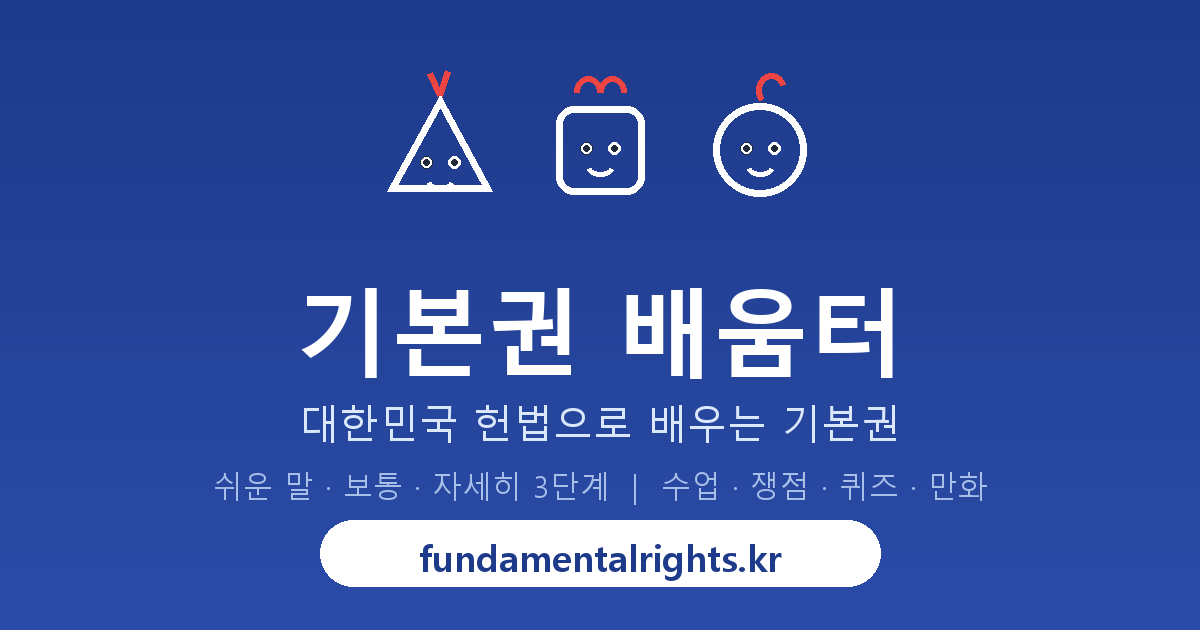
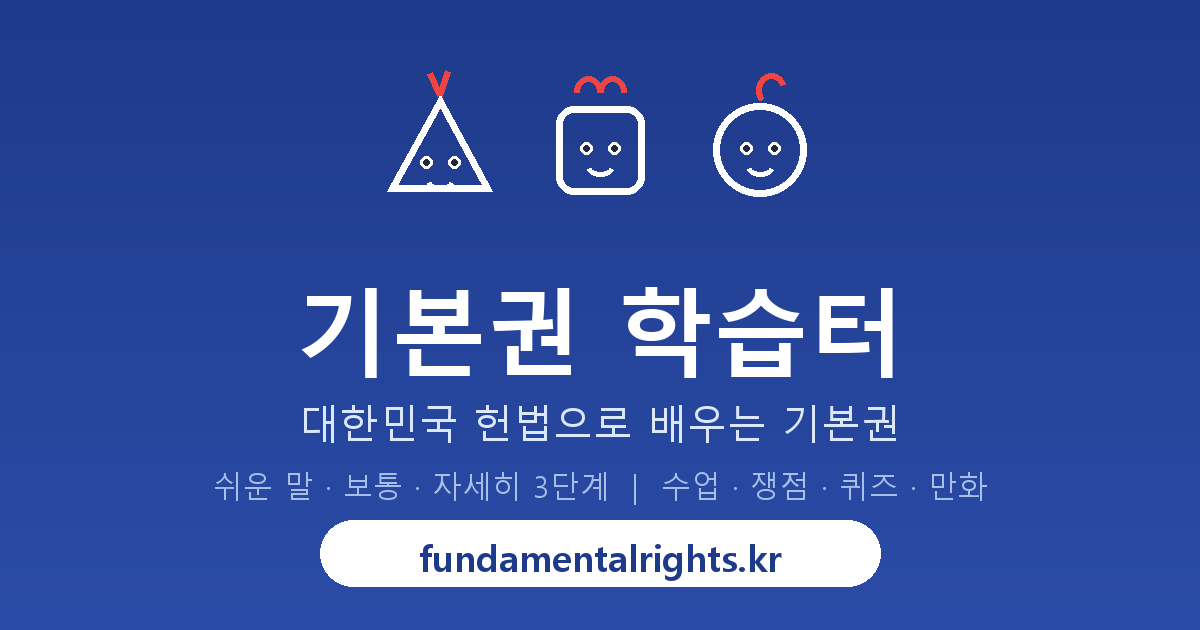
rename: site brand 기본권 배움터 → 기본권 학습터 (all pages, OG image, README, LICENSE, promo docs)

Changed region(s): [[0.5242, 0.4524, 0.6783, 0.6032]]

diff --git a/README.md b/README.md
@@ -1,4 +1,4 @@
-# 기본권 배움터 (Fundamental Rights)
+# 기본권 학습터 (Fundamental Rights)
 
 **https://fundamentalrights.kr/**
 
@@ -55,7 +55,7 @@ npm run preview  # 빌드 결과 미리보기
 ## 라이선스
 
 - **콘텐츠**(권리 설명, 쟁점, 수업안, 워크시트, 포스터, 만화, 삽화 등):
-  [CC BY-NC-SA 4.0](https://creativecommons.org/licenses/by-nc-sa/4.0/deed.ko) — 출처(기본권 배움터)를 밝히면
+  [CC BY-NC-SA 4.0](https://creativecommons.org/licenses/by-nc-sa/4.0/deed.ko) — 출처(기본권 학습터)를 밝히면
   비영리 목적으로 자유롭게 복사·배포·수정할 수 있습니다.
 - **코드**(사이트 소스): [MIT License](./LICENSE)
 - 헌법 조문 원문은 공공 저작물이며, 인용된 판례·통계는 각 원출처를 따릅니다.

diff --git a/docs/홍보문.md b/docs/홍보문.md
@@ -1,4 +1,4 @@
-# 기본권 배움터 — 활용 안내문 (배포용 초안)
+# 기본권 학습터 — 활용 안내문 (배포용 초안)
 
 커뮤니티·SNS·단체방에 붙여넣을 때 아래에서 길이에 맞는 것을 골라 쓰세요.
 필요에 따라 자유롭게 수정하셔도 됩니다.
@@ -7,7 +7,7 @@
 
 ## ① 긴 글 — 교사 커뮤니티(인디스쿨 등) 게시판용
 
-**[자료 공유] 헌법 기본권 무료 교육 사이트 "기본권 배움터"를 소개합니다**
+**[자료 공유] 헌법 기본권 무료 교육 사이트 "기본권 학습터"를 소개합니다**
 
 안녕하세요. 헌법 제2장의 기본권(제10조~제39조)을 초등학생부터 성인까지
 누구나 이해할 수 있게 정리한 무료 교육 사이트를 소개합니다.
